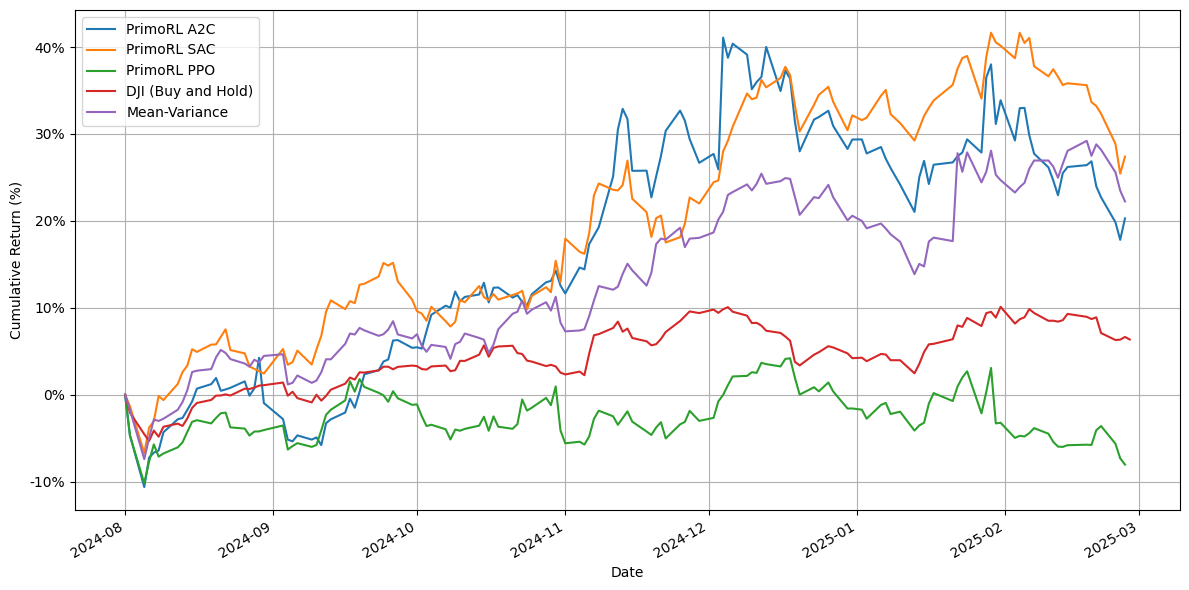
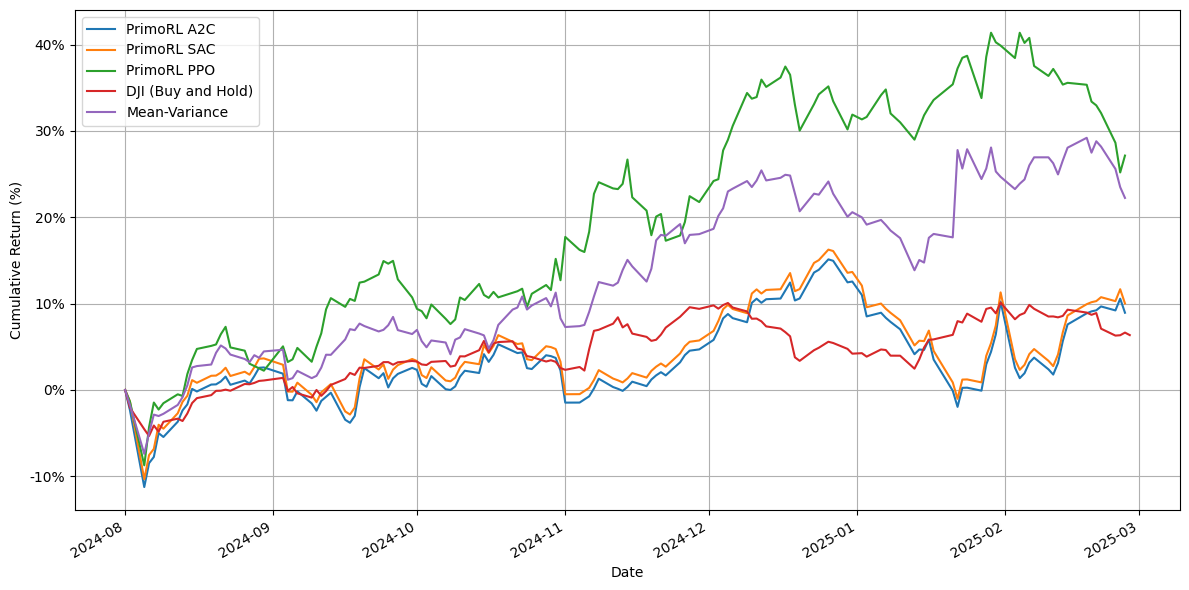
update with new results

diff --git a/README.md b/README.md
@@ -94,11 +94,11 @@ The effectiveness of PrimoRL, particularly when incorporating NLP features from 
 
 | Stock | Model   | Cumulative Return | Sharpe Ratio | Annualized Volatility | Maximum Drawdown |
 | :---- | :------ | :---------------- | :----------- | :-------------------- | :--------------- |
-| AAPL  | PrimoRL | 12.20%            | 1.15         | 19.08%                | -12.14%          |
-|       | MOM     | 21.20%            | 2.16         | 16.22%                | -9.37%           |
-| NFLX  | PrimoRL | **62.82%**        | **2.83**     | **32.07%**            | **-7.74%**       |
+| AAPL  | PrimoRL | 20.22%            | **2.20**     | 15.27%                | **-5.51%**       |
+|       | MOM     | **21.20%**        | 2.16         | 16.22%                | -9.37%           |
+| NFLX  | PrimoRL | **58.47%**        | **2.80**     | 30.52%                | **-7.76%**       |
 |       | B&H     | 58.12%            | 2.62         | 32.82%                | -10.90%          |
-| MSFT  | PrimoRL | **1.45%**         | **0.22**     | 21.24%                | -9.89%           |
+| MSFT  | PrimoRL | **0.53%**         | **0.14**     | 19.35%                | -13.39%          |
 |       | FinRL   | 0.24%             | 0.12         | 21.03%                | -9.48%           |
 | CRM   | PrimoRL | **31.95%**        | 1.64         | 33.05%                | -14.55%          |
 |       | P-MA    | 22.36%            | 1.77         | 21.27%                | -11.53%          |
@@ -114,13 +114,13 @@ The effectiveness of PrimoRL, particularly when incorporating NLP features from 
 | Mean Variance | 22.24%            | 1.64         | 23.19%                | -9.22%           |
 | DJI (B&H)     | 6.35%             | 0.94         | 12.24%                | -6.91%           |
 | FinRL (A2C)   | -4.83%            | -0.25        | 23.55%                | -11.80%          |
-| FinRL (SAC)   | 24.50%            | 1.28         | 34.53%                | -16.50%          |
+| FinRL (SAC)   | 24.36%            | 1.28         | 34.53%                | -16.50%          |
 | FinRL (PPO)   | 13.54%            | 0.87         | 31.38%                | -18.52%          |
-| PrimoRL (A2C) | 20.28%            | 1.10         | 35.05%                | -16.48%          |
-| PrimoRL (SAC) | **27.39%**        | **1.79**     | **25.55%**            | **-11.44%**      |
-| PrimoRL (PPO) | -8.03%            | -0.46        | 24.25%                | -11.73%          |
+| PrimoRL (A2C) | 8.94%             | 0.71         | 26.08%                | -14.84%          |
+| PrimoRL (SAC) | 10.01%            | 0.77         | 25.96%                | -14.86%          |
+| PrimoRL (PPO) | **27.14%**        | **1.70**     | 27.01%                | **-11.44%**      |
 
-*PrimoRL (SAC) demonstrated the best portfolio performance, achieving the highest cumulative return and Sharpe ratio with controlled volatility and drawdown, significantly outperforming FinRL variants and traditional benchmarks. This highlights the benefit of integrating NLP features, especially with the SAC agent.*
+*PrimoRL (PPO) demonstrated the best portfolio performance, achieving the highest cumulative return and Sharpe ratio with controlled volatility and drawdown, significantly outperforming FinRL variants and traditional benchmarks. This highlights the benefit of integrating NLP features, especially with the PPO agent.*
 
 The following graphs further illustrate the performance comparison:
 
@@ -133,7 +133,7 @@ The following graphs further illustrate the performance comparison:
 ### PrimoRL Performance
 <img src="figs/primorl.png" width="800" alt="PrimoRL Performance Comparison">
 
-*Cumulative returns of PrimoRL variants (A2C, SAC, PPO) compared to DJI and Mean-Variance benchmarks, highlighting PrimoRL (SAC) as the optimal strategy with superior returns and controlled risk exposure.*
+*Cumulative returns of PrimoRL variants (A2C, SAC, PPO) compared to DJI and Mean-Variance benchmarks, highlighting PrimoRL (PPO) as the optimal strategy with superior returns and controlled risk exposure.*
 
 ## Acknowledgments
 
